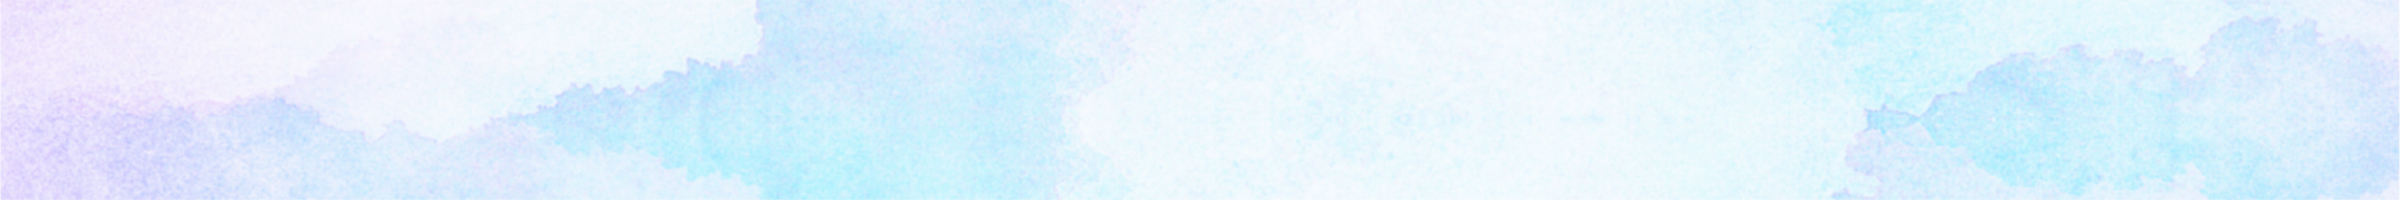
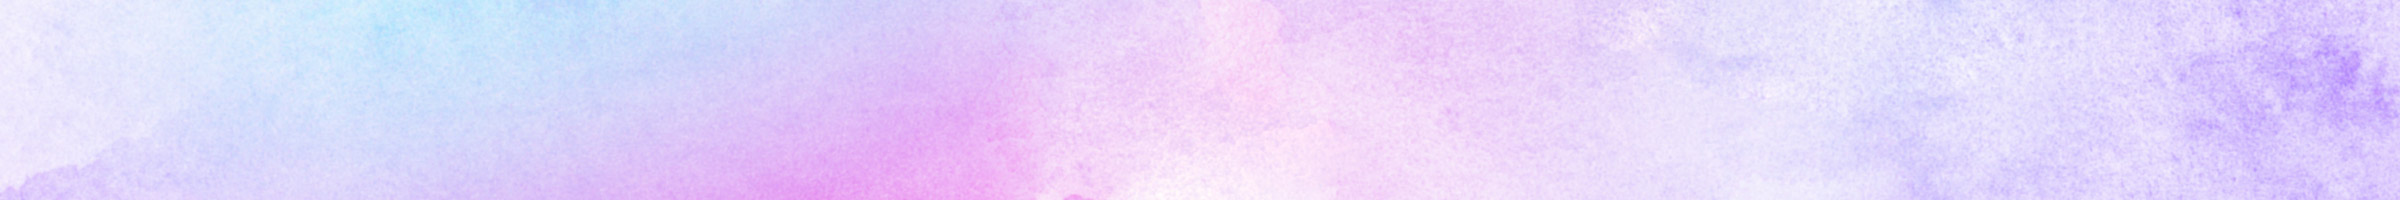
fix: 帯画像の種類を増やす

diff --git a/index.html b/index.html
@@ -99,7 +99,7 @@
       </div>
     </section>
 
-    <section class="section band-image">
+    <section class="section band-image band-back-image-1">
       <div class="container">
         <div class="row">
           <div class="col-xs-12">
@@ -158,7 +158,7 @@
       </div>
     </section>
 
-    <section class="section band-image">
+    <section class="section band-image band-back-image-2">
       <div class="container">
         <div class="row">
           <div class="col-xs-12">
@@ -179,7 +179,7 @@
       </div>
     </section>
 
-    <section class="section band-image">
+    <section class="section band-image band-back-image-3">
       <div class="container">
         <div class="row">
           <div class="col-xs-12">
@@ -200,7 +200,7 @@
       </div>
     </section>
 
-    <section class="section band-image">
+    <section class="section band-image band-back-image-1">
       <div class="container">
         <div class="row">
           <div class="col-xs-12">

diff --git a/assets/css/style.less b/assets/css/style.less
@@ -266,6 +266,15 @@ section.band-image {
     }
   }
 }
+section.band-back-image-1 {
+  background-image: url("../img/title_background_watercolor_pattern01.jpg");
+}
+section.band-back-image-2 {
+  background-image: url("../img/title_background_watercolor_pattern02.jpg");
+}
+section.band-back-image-3 {
+  background-image: url("../img/title_background_watercolor_pattern03.jpg");
+}
 
 section.bread-crumb {
   padding: 12px 0px;
@@ -365,16 +374,16 @@ section.top {
       padding: 5px 10px;
       font-size: 14px;
     }
-    // .search-btn:active {
-    //   box-shadow: none;
-    // }
+    .search-btn:active {
+      box-shadow: none;
+    }
     .search-btn {
       width: 100%;
       height: 80px;
       border-radius: 5px;
       background-color: #00ACC3;
       font-size: 20px;
-      // box-shadow: 3px 3px 4px 0 rgba(0, 0, 0, .3);
+      box-shadow: 3px 3px 4px 0 rgba(0, 0, 0, .3);
       i {
         transform: scale(-1, 1);
         margin-right: 5px;
